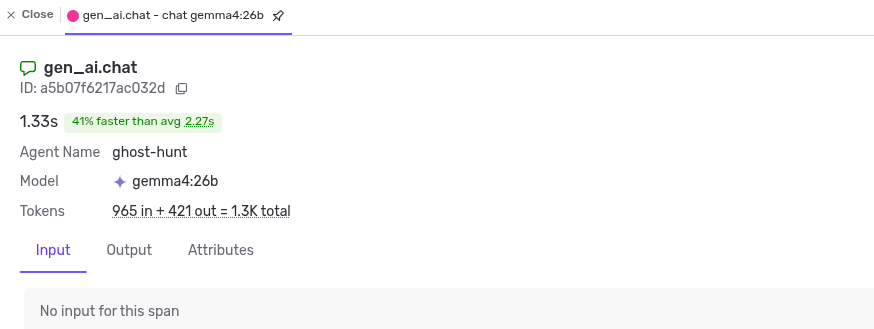
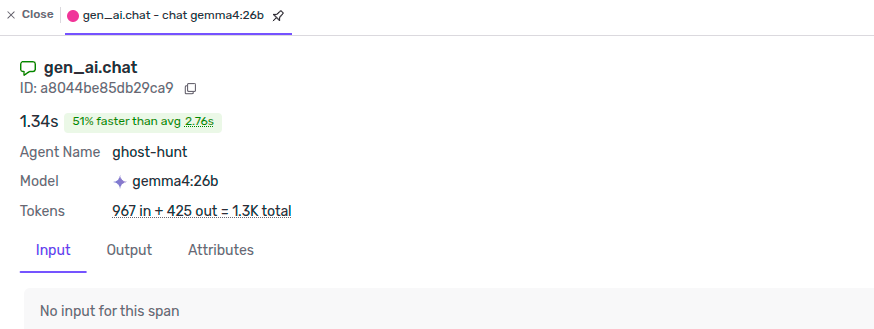
Docs: images from a run on the current code

diff --git a/README.md b/README.md
@@ -89,7 +89,7 @@ anything changed, nothing is run and the report says so.
 
 ![The same hunt in Sentry: one trace across the worker restart, with the Gemma call's model and token counts and no input recorded](docs/sentry-trace.png)
 
-![Sentry span detail for the Gemma call: gemma4:26b, 965 in + 421 out tokens, "No input for this span"](docs/sentry-span.png)
+![Sentry span detail for the Gemma call: gemma4:26b, 967 in + 425 out tokens, "No input for this span"](docs/sentry-span.png)
 
 ## Which Gemma?
 
